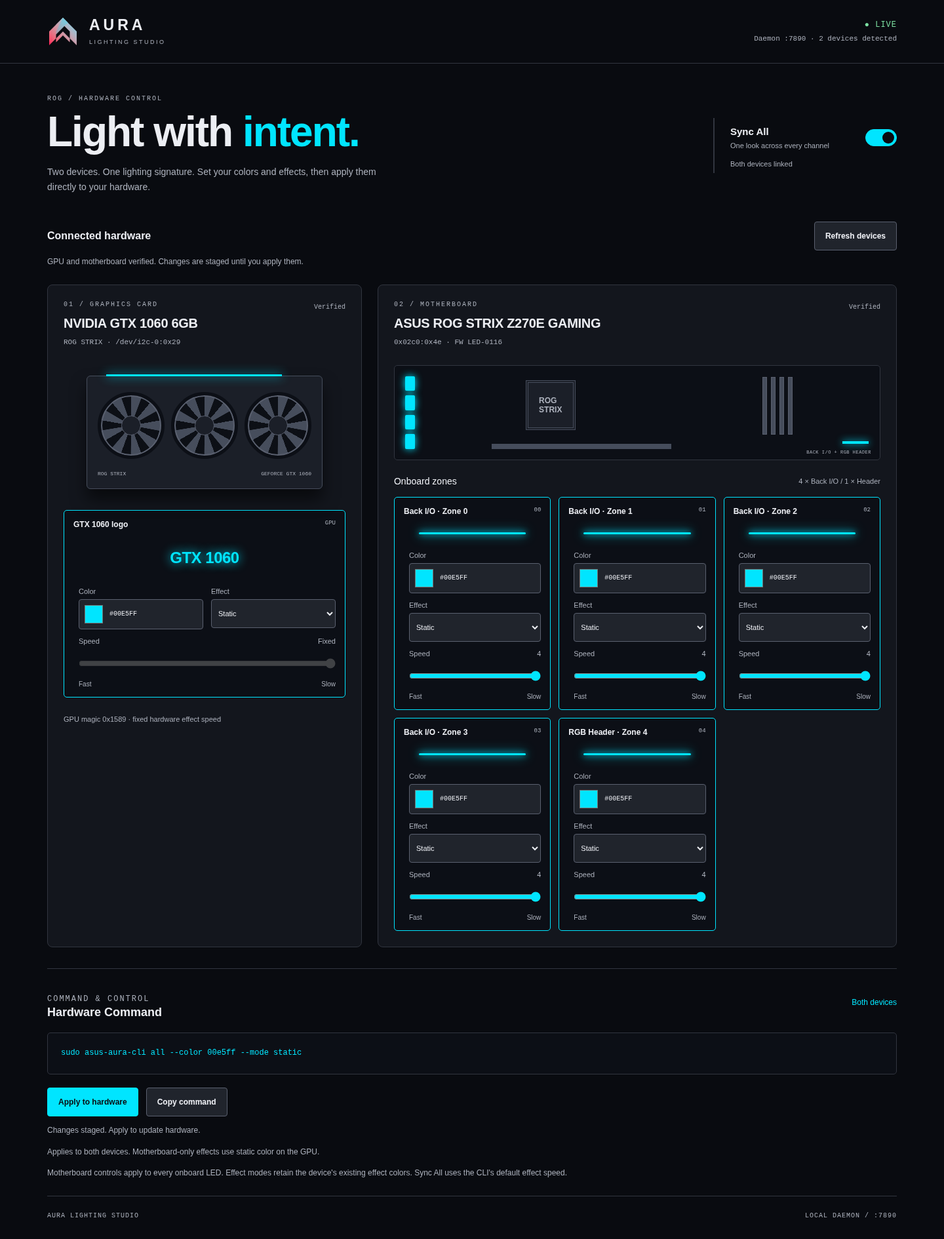
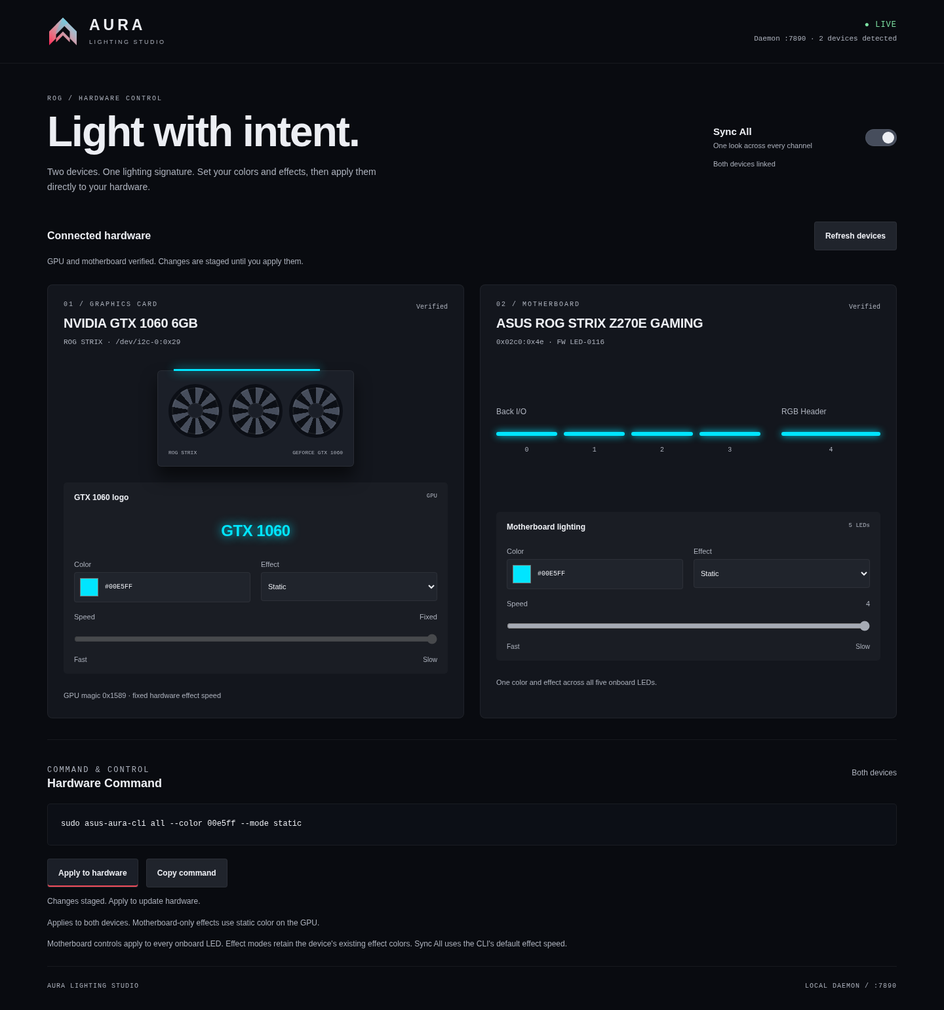
style: remove green control styling, eliminate borders, and unify motherboard controls

diff --git a/web/style.css b/web/style.css
@@ -8,16 +8,19 @@
   --bg-inset: oklch(17% .014 265);
   --bg-control: oklch(26% .016 265);
   --bg-hover: oklch(31% .021 265);
-  --border-subtle: oklch(33% .018 265);
-  --border-control: oklch(49% .024 265);
+  --border-subtle: rgba(255, 255, 255, 0.06);
+  --border-control: var(--border-subtle);
+  --bg-selected: oklch(23% .014 265);
+  --control-accent: oklch(74% .016 265);
+  --rog-accent: oklch(65% .20 20);
   --text-primary: oklch(95% .006 265);
   --text-secondary: oklch(76% .016 265);
   --text-on-accent: oklch(15% .012 265);
-  --color-accent: oklch(84.4151% .145654 209.28508);
+  --color-accent: var(--rog-accent);
   --logo-start: oklch(63.5369% .254069 15.45822);
-  --logo-end: var(--color-accent);
+  --logo-end: oklch(84.4151% .145654 209.28508);
   --color-focus: oklch(96% .04 95);
-  --color-success: oklch(83% .13 155);
+  --color-live: oklch(83% .13 155);
   --color-error: oklch(78% .14 25);
   --color-loading: oklch(84% .10 85);
   --led-off: oklch(36% .018 265);
@@ -53,23 +56,23 @@ a { color: inherit; }
 .connection { display: grid; gap: 8px; text-align: right; min-width: 0; }
 .connection strong { font: 12px var(--font-mono); letter-spacing: 1px; color: var(--color-loading); }
 .connection span { font: 11px var(--font-mono); color: var(--text-secondary); overflow-wrap: anywhere; }
-.connection[data-state=success] strong { color: var(--color-success); }
+.connection[data-state=success] strong { color: var(--color-live); }
 .connection[data-state=error] strong { color: var(--color-error); }
 main { max-width: 1600px; padding: 0 5%; margin: auto; }
 .intro { display: grid; grid-template-columns: minmax(0, 1fr) auto; gap: 40px; align-items: center; padding: 48px 0 40px; }
 .eyebrow { color: var(--text-secondary); font: 10px var(--font-mono); letter-spacing: 2px; margin: 0 0 12px; }
 h1 { font-size: clamp(38px, 5vw, 64px); font-weight: 600; line-height: 1.04; letter-spacing: -2px; margin: 0; }
-h1 span { color: var(--color-accent); }
+h1 span { color: var(--text-primary); }
 .lede { font-size: 14px; max-width: 540px; line-height: 1.7; color: var(--text-secondary); margin: 16px 0 0; }
-.sync-panel { border-left: 2px solid var(--border-subtle); padding: 8px 0 8px 24px; width: 280px; }
+.sync-panel { padding: 8px 0; width: 280px; }
 .switch-label { display: flex; align-items: center; justify-content: space-between; position: relative; gap: 16px; cursor: pointer; min-height: var(--control-height); }
 .switch-label strong { font-size: 15px; }
 .switch-label small { display: block; font-size: 11px; color: var(--text-secondary); margin-top: 6px; }
 #sync-all { position: absolute; right: 0; width: 48px; height: var(--control-height); margin: 0; opacity: 0; z-index: 1; cursor: pointer; }
 .switch-track { width: 48px; height: 26px; border: 1px solid var(--border-control); background: var(--bg-control); border-radius: 30px; flex-shrink: 0; }
 .switch-track::after { content: ''; display: block; width: 18px; height: 18px; margin: 3px; border-radius: 50%; background: var(--text-secondary); transition: transform .16s; }
-#sync-all:checked + .switch-track { background: var(--color-accent); }
-#sync-all:checked + .switch-track::after { background: var(--text-on-accent); transform: translateX(22px); }
+#sync-all:checked + .switch-track { background: var(--hardware-metal); }
+#sync-all:checked + .switch-track::after { background: var(--text-primary); transform: translateX(22px); }
 #sync-all:focus-visible + .switch-track { outline: 2px solid var(--color-focus); outline-offset: 4px; }
 #sync-all:active + .switch-track { box-shadow: 0 0 0 3px var(--border-control); }
 #sync-all:disabled + .switch-track { opacity: .45; }
@@ -78,35 +81,26 @@ h1 span { color: var(--color-accent); }
 .section-heading { display: flex; align-items: center; justify-content: space-between; gap: 16px; margin-bottom: 8px; }
 .section-heading h2 { font-size: 16px; font-weight: 550; margin: 0; }
 .connection-help { color: var(--text-secondary); font-size: 12px; line-height: 1.6; min-height: 20px; margin: 0 0 24px; }
-.devices { display: grid; grid-template-columns: minmax(0, 1fr) minmax(0, 1.65fr); gap: 24px; }
+.devices { display: grid; grid-template-columns: repeat(2, minmax(0, 1fr)); gap: 24px; }
 .device-panel { min-width: 0; background: var(--bg-card); border: 1px solid var(--border-subtle); border-radius: 8px; padding: 24px; }
 .device-heading { display: flex; gap: 12px; justify-content: space-between; align-items: start; }
 .device-heading h2 { font-size: 20px; font-weight: 550; letter-spacing: -.3px; margin: 0; }
 .hardware-address { font: 11px/1.8 var(--font-mono); color: var(--text-secondary); overflow-wrap: anywhere; margin: 8px 0 0; }
 .device-state { font: 10px var(--font-mono); color: var(--text-secondary); padding-top: 4px; }
-.gpu-hardware { position: relative; border: 1px solid var(--hardware-metal); background: var(--hardware-shell); border-radius: 6px; margin: 40px auto 32px; max-width: 360px; padding: 24px 16px 18px; box-shadow: 0 16px 24px var(--color-shadow); }
+.gpu-hardware { position: relative; border: 1px solid var(--border-subtle); background: var(--hardware-shell); border-radius: 6px; margin: 32px auto 24px; max-width: 300px; padding: 20px 16px 16px; box-shadow: 0 16px 24px var(--color-shadow); }
 .gpu-edge { position: absolute; top: -3px; left: 8%; width: 75%; height: 3px; background: var(--gpu-led, var(--led-off)); box-shadow: 0 0 15px var(--gpu-led, var(--led-off)); }
 .fans { display: flex; gap: 10px; }
 .fan { flex: 1; aspect-ratio: 1; border-radius: 50%; position: relative; border: 5px solid var(--bg-inset); background: repeating-conic-gradient(var(--hardware-metal) 0deg 20deg, var(--bg-inset) 21deg 40deg); box-shadow: inset 0 0 0 2px var(--border-control); }
 .fan::after { content: ''; position: absolute; inset: 34%; border-radius: 50%; background: var(--hardware-shell); border: 1px solid var(--border-control); }
 .hardware-caption { display: flex; gap: 8px; justify-content: space-between; font: 8px var(--font-mono); color: var(--text-secondary); margin-top: 18px; }
 .hardware-caption b { font-weight: 500; }
-.board-map { position: relative; height: 145px; background: var(--bg-inset); border: 1px solid var(--border-subtle); border-radius: 5px; margin: 24px 0; }
-.io-strip { position: absolute; left: 16px; top: 16px; bottom: 16px; width: 15px; display: grid; gap: 7px; }
-.io-strip span { background: var(--zone-led, var(--led-off)); box-shadow: 0 0 12px var(--zone-led, var(--led-off)); border-radius: 2px; }
-.cpu-socket { position: absolute; top: 22px; left: 27%; width: 76px; height: 76px; border: 4px double var(--hardware-metal); background: var(--hardware-shell); display: grid; place-items: center; }
-.cpu-socket span { font-size: 12px; font-weight: 650; color: var(--text-secondary); }
-.ram-slots { position: absolute; top: 17px; right: 18%; display: flex; gap: 6px; height: 88px; }
-.ram-slots i { width: 7px; background: var(--hardware-metal); border: 1px solid var(--border-control); }
-.pci-slot { position: absolute; left: 20%; bottom: 16px; width: 37%; height: 8px; background: var(--hardware-metal); }
-.header-strip { position: absolute; bottom: 24px; right: 17px; width: 40px; height: 4px; background: var(--zone-led, var(--led-off)); box-shadow: 0 0 12px var(--zone-led, var(--led-off)); }
-.board-caption { position: absolute; right: 13px; bottom: 7px; font: 7px var(--font-mono); letter-spacing: .5px; color: var(--text-secondary); }
-.zone-heading { display: flex; gap: 12px; align-items: center; justify-content: space-between; margin: 20px 0 16px; }
-.zone-heading h3 { font-size: 14px; font-weight: 500; margin: 0; }
-.zone-heading > span { font-size: 11px; color: var(--text-secondary); }
-.zone-grid { display: grid; grid-template-columns: repeat(3, minmax(0, 1fr)); gap: 12px; }
-.channel-card { --led: var(--led-off); --duration: 4s; min-width: 0; padding: 14px; background: var(--bg-inset); border: 1px solid var(--border-subtle); border-radius: 5px; }
-.channel-card.selected { border-color: var(--color-accent); }
+.board-map { display: grid; grid-template-columns: minmax(0, 4fr) minmax(0, 1.5fr); gap: 32px; min-height: 200px; align-items: center; margin: 24px 0; }
+.zone-group h3 { color: var(--text-secondary); font-size: 12px; font-weight: 500; margin: 0 0 24px; }
+.zone-bar { display: flex; gap: 10px; list-style: none; padding: 0; margin: 0; }
+.zone-bar li { min-width: 0; flex: 1; color: var(--text-secondary); font: 10px var(--font-mono); text-align: center; }
+.zone-led { display: block; height: 6px; width: 100%; background: var(--zone-led, var(--led-off)); box-shadow: 0 0 12px var(--zone-led, var(--led-off)); border-radius: 3px; margin-bottom: 16px; }
+.channel-card { --led: var(--led-off); --duration: 4s; min-width: 0; padding: 16px; background: transparent; border: 0; border-radius: 5px; }
+.channel-card.selected { background: var(--bg-selected); }
 .channel-header { display: flex; gap: 8px; justify-content: space-between; align-items: start; }
 .channel-header h3 { font-size: 12px; font-weight: 550; margin: 0; }
 .channel-id { font: 9px var(--font-mono); color: var(--text-secondary); }
@@ -116,29 +110,30 @@ h1 span { color: var(--color-accent); }
 .gpu-panel .led-preview { height: 65px; }
 .gpu-panel .led-bar { display: none; }
 .gpu-panel .preview-wordmark { display: block; }
-.controls { display: grid; gap: 12px; padding-left: 8px; }
+.controls { display: grid; gap: 16px; padding: 0; }
 .controls label > span { display: block; color: var(--text-secondary); font-size: 11px; margin-bottom: 6px; }
 .color-field { display: flex; align-items: center; gap: 8px; background: var(--bg-control); border: 1px solid var(--border-control); border-radius: 4px; min-height: var(--control-height); padding: 0 6px; }
 input[type=color] { width: 32px; height: var(--control-height); padding: 4px 0; border: 0; background: var(--bg-control); cursor: pointer; flex-shrink: 0; }
 .hex-value { font: 10px var(--font-mono); }
 select { width: 100%; min-height: var(--control-height); color: var(--text-primary); background: var(--bg-control); border: 1px solid var(--border-control); border-radius: 4px; padding: 6px; font-size: 11px; }
 .speed-control > span { display: flex !important; justify-content: space-between; }
-input[type=range] { width: 100%; min-height: var(--control-height); margin: 0; cursor: pointer; accent-color: var(--color-accent); }
+input[type=range] { width: 100%; min-height: var(--control-height); margin: 0; cursor: pointer; accent-color: var(--control-accent); }
 .speed-control small { display: flex; justify-content: space-between; color: var(--text-secondary); font-size: 10px; }
-.gpu-panel .controls { grid-template-columns: repeat(2, minmax(0, 1fr)); }
-.gpu-panel .speed-control { grid-column: 1 / -1; }
+.device-panel .controls { grid-template-columns: repeat(2, minmax(0, 1fr)); }
+.device-panel .speed-control { grid-column: 1 / -1; }
+.mobo-panel .channel-header { margin-bottom: 24px; }
 .device-footnote { color: var(--text-secondary); font-size: 11px; line-height: 1.7; margin: 24px 0 0; }
 .command-panel { border-top: 1px solid var(--border-subtle); margin-top: 32px; padding: 24px 0; }
 .command-panel header { display: flex; justify-content: space-between; gap: 16px; align-items: center; }
 .command-panel h2 { font-size: 18px; margin: 0; font-weight: 550; }
-#command-target { font-size: 12px; color: var(--color-accent); }
-pre { margin: 20px 0; background: var(--bg-inset); border: 1px solid var(--border-subtle); border-radius: 5px; padding: 20px; white-space: pre-wrap; overflow-wrap: anywhere; font: 12px/1.8 var(--font-mono); color: var(--color-accent); }
+#command-target { font-size: 12px; color: var(--text-secondary); }
+pre { margin: 20px 0; background: var(--bg-inset); border: 1px solid var(--border-subtle); border-radius: 5px; padding: 20px; white-space: pre-wrap; overflow-wrap: anywhere; font: 12px/1.8 var(--font-mono); color: var(--text-primary); }
 .command-actions { display: flex; align-items: center; flex-wrap: wrap; gap: 12px; }
 .btn { min-height: var(--control-height); border: 1px solid var(--border-control); border-radius: 4px; padding: 10px 16px; white-space: nowrap; cursor: pointer; font-size: 12px; font-weight: 600; background: var(--bg-control); color: var(--text-primary); }
-.btn-apply { background: var(--color-accent); color: var(--text-on-accent); border-color: var(--color-accent); }
+.btn-apply { background: var(--hardware-shell); color: var(--text-primary); box-shadow: inset 0 -2px 0 var(--rog-accent); }
 .toast { font-size: 12px; line-height: 1.6; color: var(--text-secondary); flex-basis: 100%; min-height: 20px; }
 .toast[data-state=error] { color: var(--color-error); }
-.toast[data-state=success] { color: var(--color-success); }
+.toast[data-state=success] { color: var(--text-secondary); }
 .toast[data-state=loading] { color: var(--color-loading); }
 .command-panel p { font-size: 12px; color: var(--text-secondary); line-height: 1.7; margin: 12px 0 0; }
 .command-help { max-width: 900px; }
@@ -146,31 +141,31 @@ footer { border-top: 1px solid var(--border-subtle); display: flex; justify-cont
 /* One state vocabulary covers every field, switch, and action. */
 @media (hover: hover) {
   button:hover:not(:disabled), input:hover:not(:disabled), select:hover:not(:disabled), .color-field:has(input:hover:not(:disabled)) { background-color: var(--bg-hover); color: var(--text-primary); }
-  .switch-label:has(input:hover:not(:disabled)) .switch-track { border-color: var(--color-accent); }
+  .switch-label:has(input:hover:not(:disabled)) .switch-track { background: var(--bg-hover); }
 }
 button:active:not(:disabled), input:active:not(:disabled), select:active:not(:disabled) { box-shadow: 0 0 0 2px var(--border-control); }
 button:disabled, input:disabled, select:disabled { opacity: .5; cursor: not-allowed; }
 [data-state=loading] { --state-color: var(--color-loading); }
 [data-state=error] { --state-color: var(--color-error); }
-[data-state=success] { --state-color: var(--color-success); }
 button[data-state=loading], input[data-state=loading], select[data-state=loading],
-button[data-state=error], input[data-state=error], select[data-state=error],
-button[data-state=success], input[data-state=success], select[data-state=success] { border-color: var(--state-color); }
-.controls[data-state=loading], .controls[data-state=error], .controls[data-state=success] { box-shadow: -2px 0 0 var(--state-color); }
-#sync-all[data-state=loading] + .switch-track, #sync-all[data-state=error] + .switch-track, #sync-all[data-state=success] + .switch-track { border-color: var(--state-color); }
-input[type=range][data-state=loading], input[type=range][data-state=error], input[type=range][data-state=success] { accent-color: var(--state-color); }
+button[data-state=error], input[data-state=error], select[data-state=error] { border-color: var(--state-color); }
+#sync-all[data-state=loading] + .switch-track, #sync-all[data-state=error] + .switch-track { border-color: var(--state-color); }
+.controls[data-state=loading] { opacity: .65; }
+.controls[data-state=error] { outline: 1px solid var(--color-error); outline-offset: 6px; }
 .channel-card[data-mode=off] .led-preview { opacity: .2; }
 .channel-card[data-mode=breathing] .led-preview, .channel-card[data-mode=starry-night] .led-preview { animation: breathe var(--duration) ease-in-out infinite; }
 .channel-card[data-mode=rainbow] .led-preview, .channel-card[data-mode=color-cycle] .led-preview { animation: spectrum var(--duration) linear infinite; }
+.board-map[data-mode=off] .zone-led { box-shadow: none; opacity: .25; }
+.board-map[data-mode=breathing] .zone-led, .board-map[data-mode=starry-night] .zone-led { animation: breathe var(--duration) ease-in-out infinite; }
+.board-map[data-mode=rainbow] .zone-led, .board-map[data-mode=color-cycle] .zone-led { animation: spectrum var(--duration) linear infinite; }
 @keyframes breathe { 0%, 100% { opacity: .4; } 50% { opacity: 1; } }
 @keyframes spectrum { to { filter: hue-rotate(360deg); } }
 @media (prefers-reduced-motion: reduce) { *, *::before, *::after { animation: none !important; transition: none !important; } }
 @media (max-width: 1100px) { .devices { grid-template-columns: minmax(0, 1fr); } .gpu-panel .channel-card { max-width: 650px; margin: auto; } }
 @media (max-width: 800px) {
   .intro { grid-template-columns: minmax(0, 1fr); gap: 24px; padding-top: 32px; }
-  .sync-panel { width: 100%; padding: 16px; background: var(--bg-card); border: 1px solid var(--border-subtle); }
-  .section-heading, .zone-heading, .command-panel header { align-items: start; flex-direction: column; }
-  .zone-grid { grid-template-columns: repeat(2, minmax(0, 1fr)); }
+  .sync-panel { width: 100%; padding: 16px 0; }
+  .section-heading, .command-panel header { align-items: start; flex-direction: column; }
   .topbar { align-items: start; flex-wrap: wrap; }
   .connection { text-align: left; }
   .device-panel { padding: 20px; }
@@ -180,12 +175,8 @@ input[type=range][data-state=loading], input[type=range][data-state=error], inpu
   .connection { flex-basis: 100%; }
   .device-heading { flex-direction: column; }
   .device-panel { padding: 16px; }
-  .zone-grid { grid-template-columns: minmax(0, 1fr); }
   .channel-card { padding: 16px; }
-  .zone-grid .controls { grid-template-columns: repeat(2, minmax(0, 1fr)); }
-  .zone-grid .speed-control { grid-column: 1 / -1; }
-  .board-map .cpu-socket { width: 58px; height: 65px; }
-  .ram-slots { right: 16%; gap: 4px; }
-  .ram-slots i { width: 5px; }
+  .board-map { gap: 20px; min-height: 140px; }
+  .zone-group h3 { font-size: 11px; }
   footer { flex-direction: column; }
 }

diff --git a/web/app.js b/web/app.js
@@ -11,8 +11,9 @@ const modes = [
 const gpuModes = new Set(["static", "breathing", "flashing", "spectrum", "off"]);
 const channels = [
   { id: "gpu", name: "GTX 1060 logo", tag: "GPU", color: null, mode: "static", speed: 0 },
-  ...Array.from({ length: 5 }, (_, zone) => ({ id: `zone-${zone}`, name: zone < 4 ? `Back I/O · Zone ${zone}` : "RGB Header · Zone 4", tag: `0${zone}`, color: null, mode: "static", speed: 0 })),
+  { id: "mobo", name: "Motherboard lighting", tag: "5 LEDs", color: null, mode: "static", speed: 0 },
 ];
+let zoneColors = Array(5).fill(null);
 const $ = selector => document.querySelector(selector);
 let active = channels[0];
 let connected = false;
@@ -31,6 +32,7 @@ for (const channel of channels) {
   card.querySelector("h3").textContent = channel.name;
   card.querySelector(".channel-id").textContent = channel.tag;
   card.querySelector(".preview-wordmark").textContent = "GTX 1060";
+  if (channel.id === "mobo") card.querySelector(".led-preview").remove();
   for (const [selector, suffix, label] of [[".color-picker", "color", "color"], [".mode-picker", "mode", "effect"], [".speed-slider", "speed", "speed"]]) {
     const input = card.querySelector(selector);
     input.id = `${channel.id}-${suffix}`;
@@ -46,9 +48,10 @@ for (const channel of channels) {
     active = channel;
     channel[key] = value;
     // The CLI writes motherboard settings device-wide, never per zone.
-    const linked = sync.checked ? channels : channel.id === "gpu" ? [channel] : channels.slice(1);
+    const linked = sync.checked ? channels : [channel];
     for (const target of linked) {
       target[key] = value;
+      if (key === "color" && target.id === "mobo") zoneColors.fill(value);
       if (key === "mode") target.nativeMode = null;
     }
     dirty = true;
@@ -100,8 +103,16 @@ function render() {
   }
   const led = channel => channel.mode === "off" || !channel.color ? "var(--led-off)" : channel.color;
   $(".gpu-hardware").style.setProperty("--gpu-led", led(channels[0]));
-  document.querySelectorAll(".io-strip span").forEach((element, index) => element.style.setProperty("--zone-led", led(channels[index + 1])));
-  $(".header-strip").style.setProperty("--zone-led", led(channels[5]));
+  const motherboard = channels[1];
+  document.querySelectorAll(".zone-led").forEach((element, index) => {
+    const color = zoneColors[index];
+    element.style.setProperty("--zone-led", motherboard.mode === "off" || !color ? "var(--led-off)" : color);
+    element.dataset.color = color || "";
+    element.setAttribute("role", "img");
+    element.setAttribute("aria-label", `${index < 4 ? "Back I/O" : "RGB Header"} zone ${index}: ${!color ? "unverified" : motherboard.mode === "off" ? "off" : color.toUpperCase()}`);
+  });
+  $(".board-map").dataset.mode = motherboard.mode;
+  $(".board-map").style.setProperty("--duration", `${3 + motherboard.speed * 1.5}s`);
   $("#sync-state").textContent = sync.checked ? "Both devices linked" : "Control each device independently";
   markActive();
   renderCommand();
@@ -183,7 +194,8 @@ async function refreshStatus() {
     const { gpu, mobo, gpuMode, moboMode } = hardwareData(result.data);
     if (!dirty) {
       Object.assign(channels[0], { color: `#${gpu.color_hex}`, mode: gpuMode, nativeMode: gpu.mode.replaceAll("_", "-") });
-      mobo.zones.forEach((zone, i) => Object.assign(channels[i + 1], { color: `#${zone.hex}`, mode: moboMode, nativeMode: mobo.mode.replaceAll("_", "-"), speed: mobo.speed }));
+      zoneColors = mobo.zones.map(zone => `#${zone.hex}`);
+      Object.assign(channels[1], { color: zoneColors[0], mode: moboMode, nativeMode: mobo.mode.replaceAll("_", "-"), speed: mobo.speed });
     }
     connected = true;
     $(".connection").dataset.state = "success";
@@ -249,7 +261,10 @@ copy.addEventListener("click", async () => {
   }
 });
 sync.addEventListener("change", () => {
-  if (sync.checked) for (const channel of channels) Object.assign(channel, { color: active.color, mode: active.mode, nativeMode: active.nativeMode, speed: active.speed });
+  if (sync.checked) {
+    for (const channel of channels) Object.assign(channel, { color: active.color, mode: active.mode, nativeMode: active.nativeMode, speed: active.speed });
+    zoneColors.fill(active.color);
+  }
   dirty = true;
   setControlState("default");
   render();

diff --git a/web/index.html b/web/index.html
@@ -45,9 +45,19 @@
       </section>
       <section class="device-panel mobo-panel" aria-labelledby="mobo-title">
         <header class="device-heading"><div><p class="eyebrow">02 / MOTHERBOARD</p><h2 id="mobo-title">ASUS ROG STRIX Z270E GAMING</h2><p class="hardware-address">0x02c0:0x4e · FW <span id="firmware">unverified</span></p></div><span id="mobo-state" class="device-state">Checking</span></header>
-        <div class="board-map" aria-hidden="true"><div class="io-strip"><span></span><span></span><span></span><span></span></div><div class="cpu-socket"><span>ROG<br>STRIX</span></div><div class="ram-slots"><i></i><i></i><i></i><i></i></div><div class="pci-slot"></div><div class="header-strip"></div><span class="board-caption">BACK I/O + RGB HEADER</span></div>
-        <div class="zone-heading"><h3>Onboard zones</h3><span>4 × Back I/O / 1 × Header</span></div>
-        <div id="mobo-controls" class="zone-grid"></div>
+        <div class="board-map" aria-label="Onboard LED colors">
+          <div class="zone-group"><h3>Back I/O</h3><ol class="zone-bar">
+            <li><span class="zone-led" data-zone="0"></span><span>0</span></li>
+            <li><span class="zone-led" data-zone="1"></span><span>1</span></li>
+            <li><span class="zone-led" data-zone="2"></span><span>2</span></li>
+            <li><span class="zone-led" data-zone="3"></span><span>3</span></li>
+          </ol></div>
+          <div class="zone-group header-zone"><h3>RGB Header</h3><ol class="zone-bar" start="4">
+            <li><span class="zone-led" data-zone="4"></span><span>4</span></li>
+          </ol></div>
+        </div>
+        <div id="mobo-controls"></div>
+        <p class="device-footnote">One color and effect across all five onboard LEDs.</p>
       </section>
     </section>
 

diff --git a/tests/test_ui.py b/tests/test_ui.py
@@ -97,10 +97,15 @@ def test_live_dashboard(page, daemon, width):
     expect(page.get_by_role("heading", name="NVIDIA GTX 1060 6GB")).to_be_visible()
     expect(page.get_by_role("heading", name="ASUS ROG STRIX Z270E GAMING")).to_be_visible()
     expect(page.locator("#firmware")).to_have_text("LED-0116")
-    expect(page.locator(".channel-card")).to_have_count(6)
+    expect(page.locator(".channel-card")).to_have_count(2)
+    expect(page.locator("#mobo .color-picker")).to_have_count(1)
+    expect(page.locator("#mobo .mode-picker")).to_have_count(1)
+    expect(page.locator("#mobo .speed-slider")).to_have_count(1)
+    expect(page.locator(".zone-led")).to_have_count(5)
+    expect(page.locator(".cpu-socket, .ram-slots, .pci-slot")).to_have_count(0)
     expect(page.locator("#gpu-speed")).to_be_disabled()
     expect(page.locator("#gpu-color")).to_have_value("#ff0055")
-    expect(page.locator("#zone-4-color")).to_have_value("#00e5ff")
+    expect(page.locator("#mobo-color")).to_have_value("#00e5ff")
 
     set_color(page, "#gpu-color", "#00e5ff")
     expect(page.locator("#gpu .hex-value")).to_have_text("#00E5FF")
@@ -109,16 +114,18 @@ def test_live_dashboard(page, daemon, width):
     expect(page.locator("#command-preview")).to_have_text("sudo asus-aura-cli gpu --color 00e5ff --mode breathing")
     assert daemon["writes"] == []  # Staging never writes hardware.
 
-    page.locator("#zone-0-mode").select_option("strobing")
-    page.locator("#zone-0-speed").focus()
+    set_color(page, "#mobo-color", "#112233")
+    for zone in range(5):
+        expect(page.locator(f'.zone-led[data-zone="{zone}"]')).to_have_attribute("data-color", "#112233")
+    page.locator("#mobo-mode").select_option("strobing")
+    page.locator("#mobo-speed").focus()
     page.keyboard.press("End")
     expect(page.locator("#command-preview")).to_contain_text("--mode flashing --speed 4")
-    for zone in range(5):
-        expect(page.locator(f"#zone-{zone}-mode")).to_have_value("strobing")
+    expect(page.locator(".board-map")).to_have_attribute("data-mode", "strobing")
     page.locator("#sync-all").check()
-    set_color(page, "#zone-4-color", "#ff0055")
-    page.locator("#zone-4-mode").select_option("rainbow")
-    for channel in ["gpu", *[f"zone-{i}" for i in range(5)]]:
+    set_color(page, "#mobo-color", "#ff0055")
+    page.locator("#mobo-mode").select_option("rainbow")
+    for channel in ["gpu", "mobo"]:
         expect(page.locator(f"#{channel}-color")).to_have_value("#ff0055")
         expect(page.locator(f"#{channel}-mode")).to_have_value("rainbow")
     expect(page.locator("#command-preview")).to_have_text("sudo asus-aura-cli all --color ff0055 --mode rainbow")
@@ -130,7 +137,8 @@ def test_live_dashboard(page, daemon, width):
     page.locator("#gpu-mode").select_option("off")
     expect(page.locator("#command-preview")).to_have_text("sudo asus-aura-cli all --off")
     page.locator("#btn-apply").click()
-    expect(page.locator(".channel-card[data-mode=off]")).to_have_count(6)
+    expect(page.locator(".channel-card[data-mode=off]")).to_have_count(2)
+    expect(page.locator(".board-map")).to_have_attribute("data-mode", "off")
     page.locator("#sync-all").uncheck()
     page.locator("#gpu-mode").select_option("wave")
     expect(page.locator("#command-note")).to_contain_text("GPU uses static color")
@@ -222,7 +230,7 @@ def test_preserves_native_hardware_modes(page, daemon, native):
     daemon["data"]["motherboard"]["mode"] = native
     page.goto(URL, wait_until="networkidle")
     expect(page.locator("#live-status")).to_have_text("● LIVE")
-    page.locator("#zone-0-color").focus()
+    page.locator("#mobo-color").focus()
     expect(page.locator("#command-preview")).to_contain_text(f"--mode {native.replace('_', '-')}")
 
 
@@ -256,6 +264,35 @@ def test_copy_feedback_and_hover_active_states(page, daemon):
     assert button.evaluate("el => getComputedStyle(el).boxShadow") != "none"
     page.mouse.move(0, 0)
     page.mouse.up()
+
+
+def test_connected_controls_remain_neutral_and_selection_has_no_border(page, daemon):
+    page.goto(URL, wait_until="networkidle")
+    expect(page.locator("#mobo-color")).to_have_attribute("data-state", "success")
+    assert page.locator("#mobo .controls").evaluate("el => getComputedStyle(el).boxShadow") == "none"
+    fields = page.locator("#mobo-color, #mobo-mode, #btn-apply")
+    original = fields.evaluate_all("els => els.map(el => getComputedStyle(el).borderColor)")
+    page.locator("#sync-all").check()
+    assert fields.evaluate_all("els => els.map(el => getComputedStyle(el).borderColor)") == original
+    for card in ["#gpu", "#mobo"]:
+        assert page.locator(card).evaluate("el => getComputedStyle(el).borderWidth") == "0px"
+    assert page.locator(".sync-panel").evaluate("el => getComputedStyle(el).borderLeftWidth") == "0px"
+    assert page.locator("#mobo-speed").evaluate("el => getComputedStyle(el).accentColor") != page.locator("#live-status").evaluate("el => getComputedStyle(el).color")
+    expect(page.locator("#live-status")).to_have_text("● LIVE")
+
+
+def test_board_strip_reads_each_zone_and_unified_color_writes_boardwide(page, daemon):
+    daemon["data"]["motherboard"]["zones"][4]["hex"] = "112233"
+    page.goto(URL, wait_until="networkidle")
+    expect(page.locator('.zone-led[data-zone="0"]')).to_have_attribute("data-color", "#00e5ff")
+    expect(page.locator('.zone-led[data-zone="4"]')).to_have_attribute("data-color", "#112233")
+    set_color(page, "#mobo-color", "#334455")
+    page.locator("#btn-apply").click()
+    expect(page.locator("#btn-apply")).to_be_enabled()
+    assert daemon["writes"][-1]["target"] == "mobo"
+    assert daemon["writes"][-1]["color"] == "334455"
+    for zone in range(5):
+        expect(page.locator(f'.zone-led[data-zone="{zone}"]')).to_have_attribute("data-color", "#334455")
 
 
 def test_vector_assets_and_locked_tokens():
